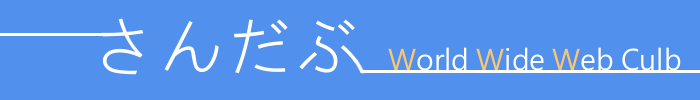
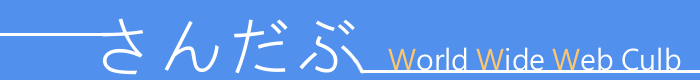
デザイン微調整
ヘッダー画像の高さを調整
panelを消去
boxにマウスを乗せた時の動作を追加

diff --git a/design/WWW/products.html b/design/WWW/products.html
@@ -27,11 +27,11 @@
 
 	<div class="container">
 
-	<div class="page">
-	<div class="panel panel-primary">
+	<!--<div class="panel">
 		<div class="panel-heading">Products</div>
-	<div class="panel-body"></div>
+	<div class="panel-body"></div>-->
 
+	<a href="#">
 	<div class="box">
 		<div class="imageFrame">
 			<div class="image">
@@ -42,7 +42,9 @@
 			<div class="title2">Save The Earth</div>
 		</div>
 	</div>
+	</a>
 
+	<a href="#">
 	<div class="box">
 		<div class="imageFrame">
 			<div class="image">
@@ -53,7 +55,9 @@
 			<div class="title2">【自作】CAVE【アクションゲーム】</div>
 		</div>
 	</div>
+	</a>
 
+	<a href="#">
 	<div class="box">
 		<div class="imageFrame">
 			<div class="image">
@@ -64,7 +68,9 @@
 			<div class="title2">FOUR DIMENSIONS kkkkkkkkkkkkkkkkkkkkkkkkkkkkkkkkkkkkk</div>
 		</div>
 	</div>
+	</a>
 
+	<a href="#">
 	<div class="box">
 		<div class="imageFrame">
 			<div class="image">
@@ -75,7 +81,9 @@
 			<div class="title2">マインスイーパーもどき JavascriptVer</div>
 		</div>
 	</div>
+	</a>
 
+	<a href="#">
 	<div class="box">
 		<div class="imageFrame">
 			<div class="image">
@@ -86,7 +94,9 @@
 			<div class="title2">Save The Earth</div>
 		</div>
 	</div>
+	</a>
 
+	<a href="#">
 	<div class="box">
 		<div class="imageFrame">
 			<div class="image">
@@ -97,7 +107,9 @@
 			<div class="title2">【自作】CAVE【アクションゲーム】</div>
 		</div>
 	</div>
+	</a>
 
+	<a href="#">
 	<div class="box">
 		<div class="imageFrame">
 			<div class="image">
@@ -108,7 +120,9 @@
 			<div class="title2">FOUR DIMENSIONS kkkkkkkkkkkkkkkkkkkkkkkkkkkkkkkkkkkkk</div>
 		</div>
 	</div>
+	</a>
 
+	<a href="#">
 	<div class="box">
 		<div class="imageFrame">
 			<div class="image">
@@ -119,6 +133,7 @@
 			<div class="title2">マインスイーパーもどき JavascriptVer</div>
 		</div>
 	</div>
+	</a>
 
 	<div class="contain" style="background-image: url('image/savetheearth.PNG')">
 		<!--<div class="titleback"></div>-->
@@ -179,8 +194,7 @@
 	</div>
 
 	</div>
-	</div>
-	</div>
+	<!--</div>-->
 	</div>
 
     <script src="http://code.jquery.com/jquery.js"></script>

diff --git a/design/WWW/CSS/style.css b/design/WWW/CSS/style.css
@@ -1,14 +1,14 @@
 #header{
 	background-image: url("../image/bluesky-line.png");
 	background-position: top left;
-	height: 100px;
-	margin-bottom: 0px;
+	height: 80px;
 }
 
 .tab {
     padding-top: 20px;
     border: 1px solid #5290ed;
     background-color: #5290ed;
+    margin-bottom: 20px;
 }
 
 .tab ul {
@@ -34,9 +34,14 @@
     border-bottom-color: transparent;
 }
 
-.panel-heading, {
+.panel{
+	border-color: #5290ed;
+}
+
+.panel-heading {
 	background-color: #5290ed;
 	border-color: #5290ed;
+	color: #FFFFFF;
 }
 
 .image img{
@@ -63,6 +68,10 @@
 	/*border-style: solid;
 	border-width: thin;
 	border-color: #1c59b5;*/
+}
+
+a:hover .box{
+	opacity:0.6;
 }
 
 .textbox{
